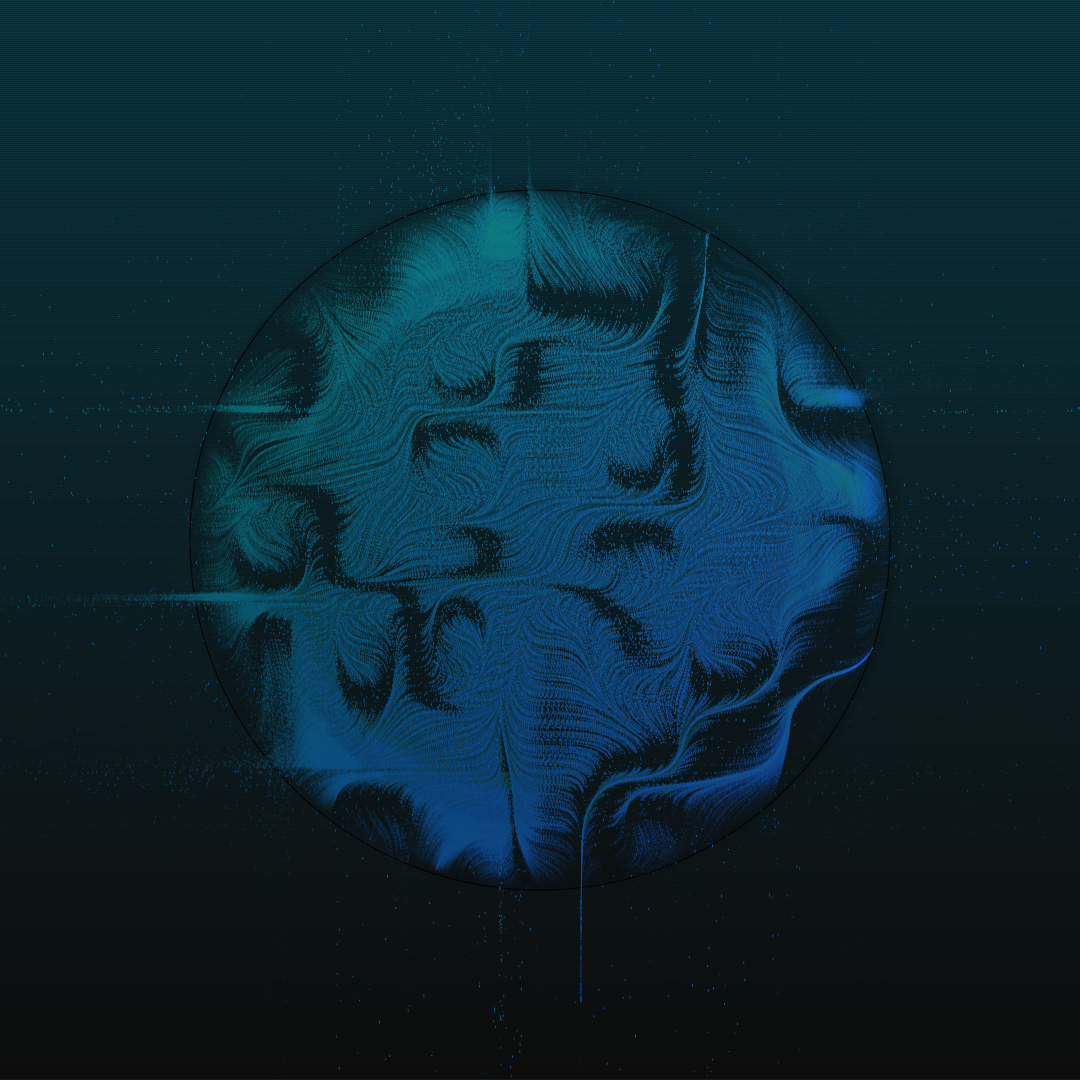
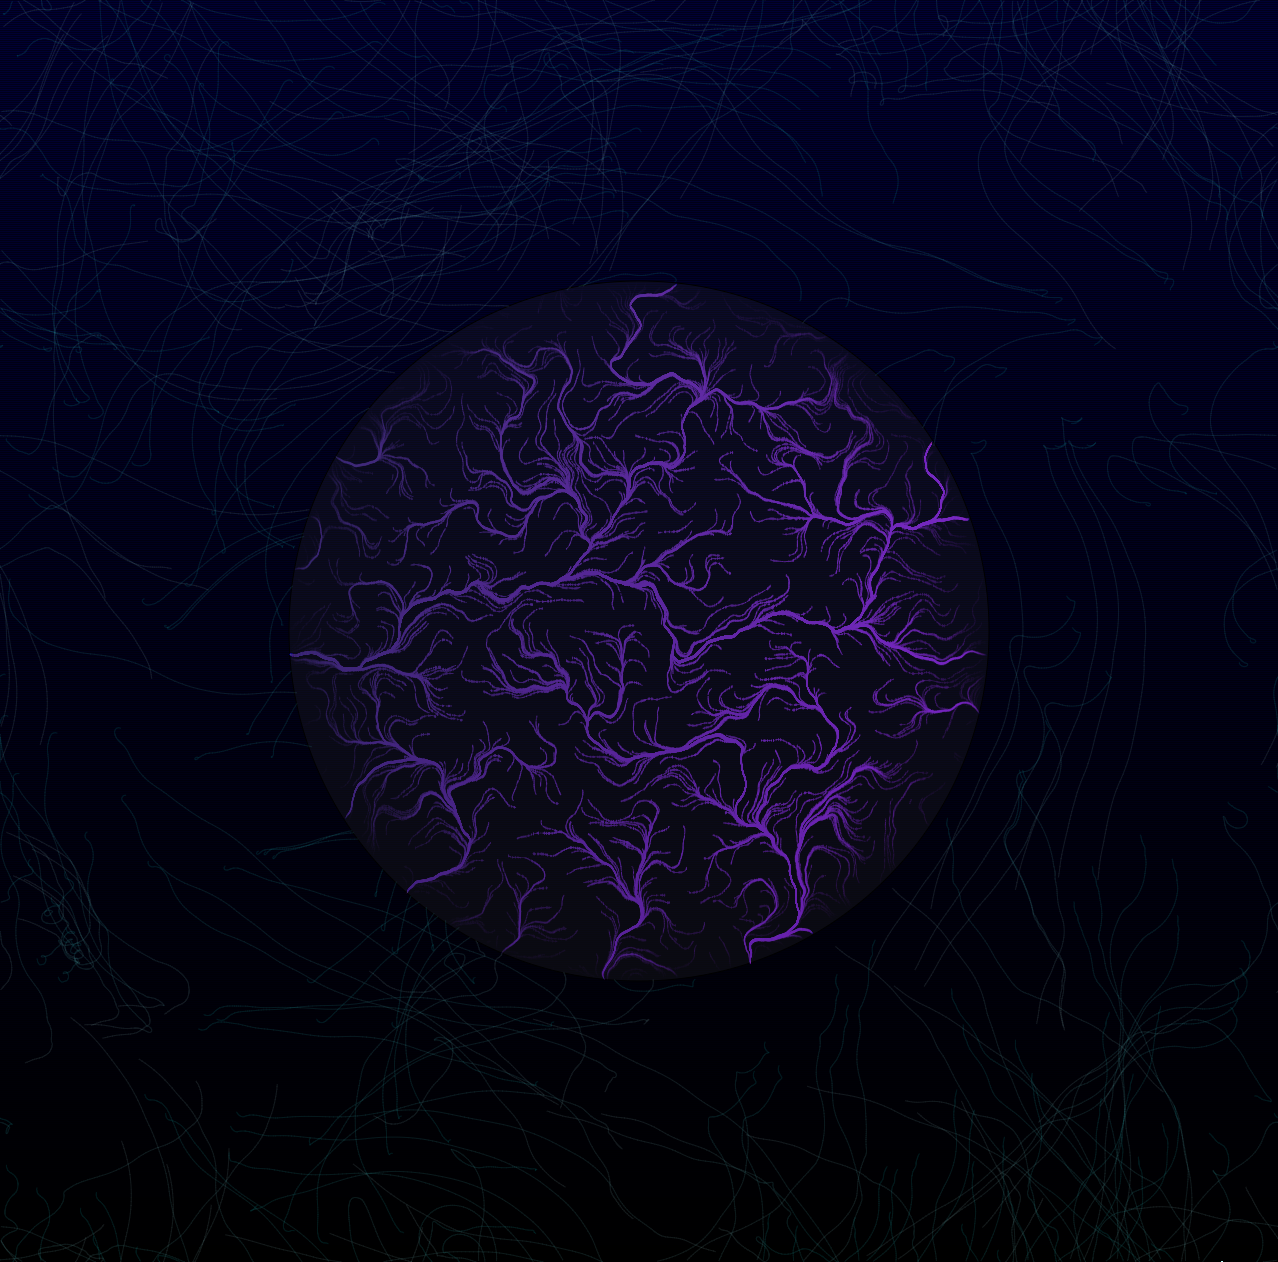
update artwork

diff --git a/src/components/NFTCarousel.tsx b/src/components/NFTCarousel.tsx
@@ -31,6 +31,9 @@ class NFTCarousel extends Component {
           <div>
             <img src="assets/3.png" alt="Solstice #3" />
           </div>
+          <div>
+            <img src="assets/4.png" alt="Solstice #4" />
+          </div>
         </Carousel>
       </div>
     );